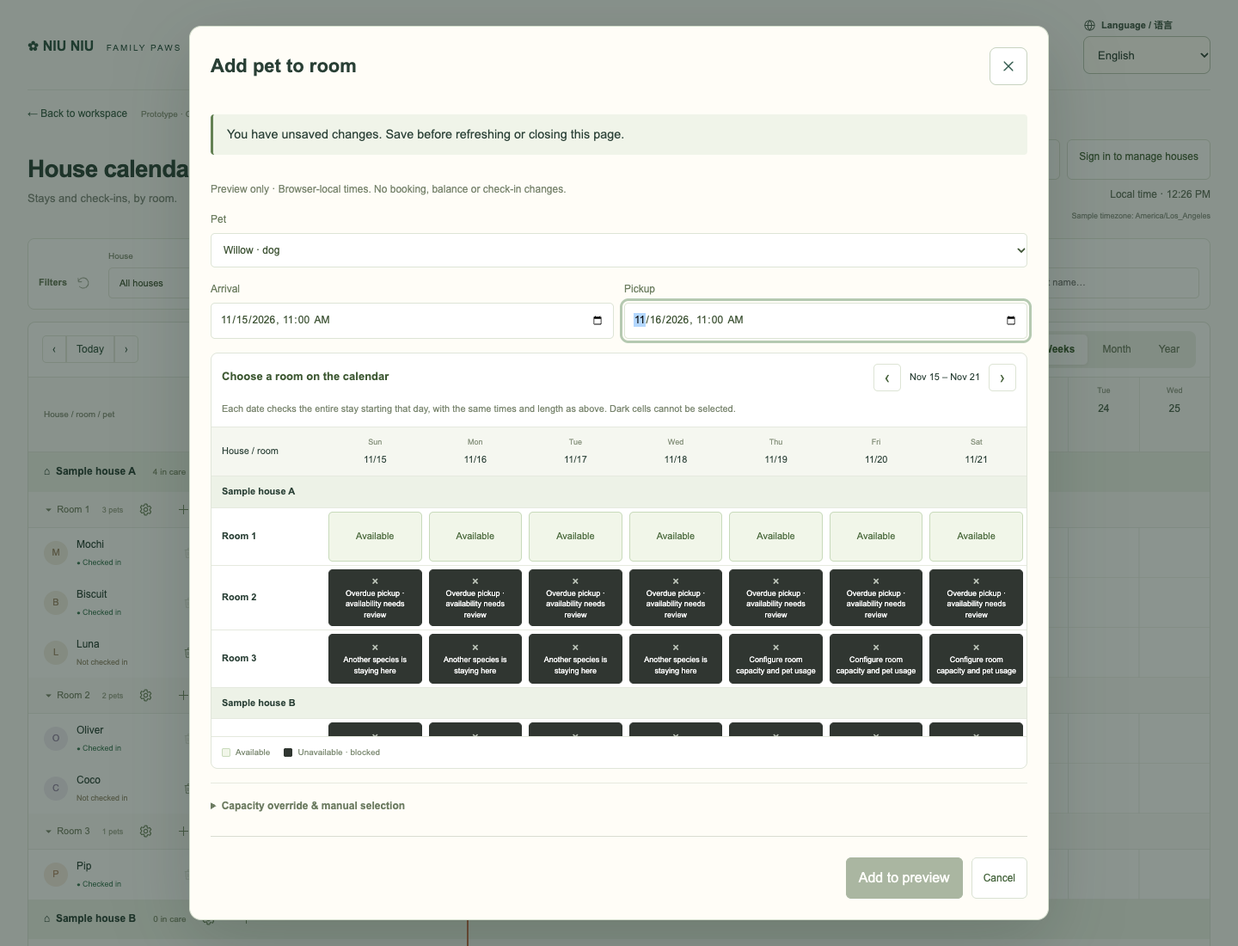
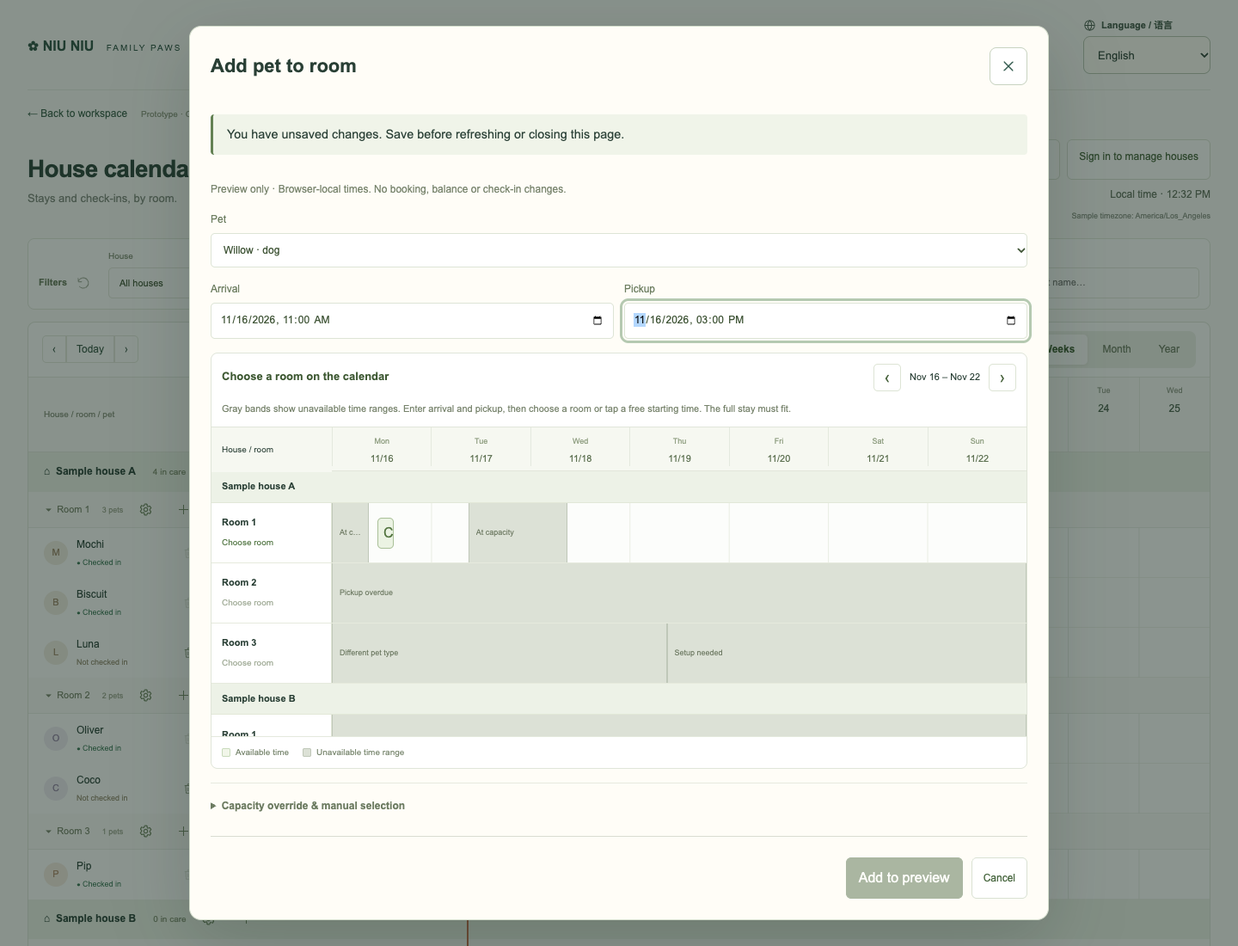
feat: shade continuous unavailable time ranges

diff --git a/apps/web/src/calendar-assignment.tsx b/apps/web/src/calendar-assignment.tsx
@@ -2,48 +2,67 @@ import React from 'react';
 import {useTranslation} from 'react-i18next';
 import Modal from './modal';
 import UnsavedChanges,{confirmDiscardChanges} from './unsaved-changes';
-import {placementIssue,type Placement,type PlacementIssue} from './calendar-placement';
+import {placementIssue,unavailableRanges,type Placement,type PlacementIssue} from './calendar-placement';
 export type PlacementHouse={id:number;name:string;rooms:{id:number;name:string;capacity:string;costs?:Record<string,string>}[]};
 export default function AssignmentDialog({houses,stays,pets,anchor,initial,onClose,onApply}:{houses:PlacementHouse[];stays:Placement[];pets:{name:string;species:string}[];anchor:Date;initial?:{house:number;room:number};onClose:()=>void;onApply:(stay:Placement)=>void}){
  const {i18n}=useTranslation(),zh=i18n.language==='zh',t=(en:string,cn:string)=>zh?cn:en;
  const local=(d:Date)=>new Date(d.getTime()-d.getTimezoneOffset()*60000).toISOString().slice(0,16);
  const [pet,setPet]=React.useState(''),[start,setStart]=React.useState(local(new Date(anchor.getTime()+9*3600000))),[end,setEnd]=React.useState(''),[house,setHouse]=React.useState(initial?String(initial.house):''),[room,setRoom]=React.useState(initial?String(initial.room):''),[override,setOverride]=React.useState('');
- const [week,setWeek]=React.useState(0);
+ const [week,setWeek]=React.useState(0),[feedback,setFeedback]=React.useState('');
+
  React.useEffect(()=>setWeek(0),[start]);
  const [dirty,setDirty]=React.useState(false),form=React.useRef<HTMLFormElement>(null);
  const selected=pets.find(p=>p.name===pet),offset=(s:string)=>(new Date(s).getTime()-anchor.getTime()-9*3600000)/86400000;
  const begin=offset(start),finish=offset(end),valid=!!selected&&Number.isFinite(begin)&&Number.isFinite(finish)&&finish>begin;
  const issue=(h:PlacementHouse,r:PlacementHouse['rooms'][number])=>!valid?'dates':placementIssue(stays,pet,selected!.species,begin,finish,h.id,r.id,Number(r.capacity),Number(override||r.costs?.[selected!.species]));
  const reasons:Record<Exclude<PlacementIssue,null>,string>={dates:t('Choose a pet and valid times first','请先选择宠物和有效时间'),duplicate:t('Pet already has a stay at this time','该宠物在此时段已有安排'),species:t('Another species is staying here','此时段有其他种类的宠物'),overdue:t('Overdue pickup · availability needs review','接回逾期 · 可用性需核实'),boundary:t('Back-to-back stay · turnover rule needed','相邻时段 · 需确认周转规则'),capacity:t('Not enough capacity for the whole stay','整个托管时段内容量不足'),unconfigured:t('Configure room capacity and pet usage','请配置房间容量和宠物用量')};
+ const rangeReasons={...reasons,capacity:t('At capacity','容量已满'),species:t('Different pet type','其他种类宠物'),duplicate:t('Pet already scheduled','宠物已有安排'),unconfigured:t('Setup needed','需要配置'),overdue:t('Pickup overdue','接回逾期')};
  const chosenHouse=houses.find(h=>String(h.id)===house),chosenRoom=chosenHouse?.rooms.find(r=>String(r.id)===room),problem=chosenHouse&&chosenRoom?issue(chosenHouse,chosenRoom):'dates';
  const calendarStart=Number.isFinite(new Date(start).getTime())?new Date(start):new Date(anchor);
  calendarStart.setHours(0,0,0,0);calendarStart.setDate(calendarStart.getDate()+week*7);
  const days=Array.from({length:7},(_,i)=>{const day=new Date(calendarStart);day.setDate(day.getDate()+i);return day;});
  const locale=zh?'zh-CN':'en-US';
- function candidate(day:Date){
-   const arrival=new Date(start),pickup=new Date(end),dayDelta=Math.round((Date.UTC(day.getFullYear(),day.getMonth(),day.getDate())-Date.UTC(arrival.getFullYear(),arrival.getMonth(),arrival.getDate()))/86400000);
-   arrival.setDate(arrival.getDate()+dayDelta);pickup.setDate(pickup.getDate()+dayDelta);
-   return {arrival,pickup,begin:offset(local(arrival)),finish:offset(local(pickup))};
+ const calendarEnd=new Date(calendarStart);calendarEnd.setDate(calendarEnd.getDate()+7);
+ const viewFrom=offset(local(calendarStart)),viewTo=offset(local(calendarEnd)),viewLength=viewTo-viewFrom;
+ const position=(value:number)=>(value-viewFrom)/viewLength*100;
+ const timeFor=(value:number)=>new Date(anchor.getTime()+9*3600000+value*86400000);
+ const rangeLabel=(a:number,b:number)=>timeFor(a).toLocaleString(locale,{month:'short',day:'numeric',hour:'2-digit',minute:'2-digit'})+' – '+timeFor(b).toLocaleString(locale,{month:'short',day:'numeric',hour:'2-digit',minute:'2-digit'});
+ function chooseRange(h:PlacementHouse,r:PlacementHouse['rooms'][number],arrival=begin,pickup=finish){
+   if(!valid){setFeedback(reasons.dates);return;}
+   const reason=placementIssue(stays,pet,selected!.species,arrival,pickup,h.id,r.id,Number(r.capacity),Number(override||r.costs?.[selected!.species]));
+   if(reason){setFeedback(reasons[reason]);return;}
+   setStart(local(timeFor(arrival)));setEnd(local(timeFor(pickup)));setHouse(String(h.id));setRoom(String(r.id));setDirty(true);setFeedback('');
  }
- function calendarIssue(h:PlacementHouse,r:PlacementHouse['rooms'][number],day:Date):PlacementIssue{
-   if(!valid)return 'dates';const stay=candidate(day);
-   return placementIssue(stays,pet,selected!.species,stay.begin,stay.finish,h.id,r.id,Number(r.capacity),Number(override||r.costs?.[selected!.species]));
- }
- function choose(h:PlacementHouse,r:PlacementHouse['rooms'][number],day:Date){
-   if(calendarIssue(h,r,day))return;const stay=candidate(day);
-   setStart(local(stay.arrival));setEnd(local(stay.pickup));setHouse(String(h.id));setRoom(String(r.id));setDirty(true);
+ function chooseTime(event:React.MouseEvent<HTMLDivElement>,h:PlacementHouse,r:PlacementHouse['rooms'][number]){
+   if(!valid){setFeedback(reasons.dates);return;}
+   const rect=event.currentTarget.getBoundingClientRect();
+   const arrival=Math.round((viewFrom+(event.clientX-rect.left)/rect.width*viewLength)*1440)/1440;
+   chooseRange(h,r,arrival,arrival+(finish-begin));
  }
  const close=()=>{if(confirmDiscardChanges(i18n.language,form.current))onClose();};
- const invalidate=()=>{setDirty(true);setHouse('');setRoom('');};
+ const invalidate=()=>{setDirty(true);setHouse('');setRoom('');setFeedback('');};
  return <Modal className="hc-assignment-dialog" title={t('Add pet to room','添加宠物到房间')} onClose={close}><form ref={form} className="hc-settings-form" onSubmit={e=>{e.preventDefault();if(!selected||!chosenHouse||!chosenRoom||problem)return;onApply({id:crypto.randomUUID(),name:pet,species:selected.species,house:chosenHouse.id,room:chosenRoom.id,start:begin,end:finish,status:'upcoming',units:Number(override||chosenRoom.costs?.[selected.species])});}}>
  <UnsavedChanges active={dirty}/><p className="hc-setup-note">{t('Preview only · Browser-local times. No booking, balance or check-in changes.','仅供预览 · 使用浏览器当地时间。不修改预约、余额或入住记录。')}</p>
  <label>{t('Pet','宠物')}<select aria-label={t('Pet','宠物')} required value={pet} onChange={e=>{setPet(e.target.value);invalidate();}}><option value="">{t('Select a pet','选择宠物')}</option>{pets.map(p=><option key={p.name} value={p.name}>{p.name} · {t(p.species,{dog:'狗',cat:'猫',rabbit:'兔'}[p.species]||p.species)}</option>)}</select></label>
  <div className="hc-time-fields"><label>{t('Arrival','到店时间')}<input type="datetime-local" required value={start} onChange={e=>{setStart(e.target.value);invalidate();}}/></label><label>{t('Pickup','接回时间')}<input type="datetime-local" required value={end} onChange={e=>{setEnd(e.target.value);invalidate();}}/></label></div>
  <section className="hc-schedule-picker" aria-label={t('Room availability calendar','房间可用日历')}>
  <div className="hc-schedule-heading"><h3>{t('Choose a room on the calendar','在日历上选择房间')}</h3><div><button type="button" title={t('Previous week','上一周')} aria-label={t('Previous week','上一周')} onClick={()=>setWeek(week-1)}>‹</button><span>{days[0].toLocaleDateString(locale,{month:'short',day:'numeric'})} – {days[6].toLocaleDateString(locale,{month:'short',day:'numeric'})}</span><button type="button" title={t('Next week','下一周')} aria-label={t('Next week','下一周')} onClick={()=>setWeek(week+1)}>›</button></div></div>
- <p className="hc-setup-note">{valid?t('Each date checks the entire stay starting that day, with the same times and length as above. Dark cells cannot be selected.','每个日期检查从该日开始、时间及长度与上方一致的整个托管时段。深色格不可选。'):t('Select a pet and enter arrival and pickup first. Available starting dates will appear here.','请先选择宠物并填写到店、接回时间，然后在此选择可用开始日期。')}</p>
- <div className="hc-schedule-scroll" tabIndex={0} aria-label={t('Scroll room availability calendar','滚动房间可用日历')}><table className="hc-schedule-table"><thead><tr><th scope="col">{t('House / room','房屋 / 房间')}</th>{days.map(day=><th scope="col" key={day.toISOString()}><small>{day.toLocaleDateString(locale,{weekday:'short'})}</small>{day.toLocaleDateString(locale,{month:'numeric',day:'numeric'})}</th>)}</tr></thead><tbody>{houses.map(h=><React.Fragment key={h.id}><tr className="hc-schedule-house"><th scope="rowgroup" colSpan={8}>{h.name}</th></tr>{!h.rooms.length&&<tr><td colSpan={8}>{t('No rooms yet','暂无房间')}</td></tr>}{h.rooms.map(r=><tr key={r.id}><th scope="row">{r.name}</th>{days.map(day=>{const reason=calendarIssue(h,r,day),picked=String(h.id)===house&&String(r.id)===room&&day.toDateString()===new Date(start).toDateString();const explanation=reason?reasons[reason]:t('Available','可用');return <td key={day.toISOString()}><button type="button" className={'hc-schedule-cell '+(!valid?'pending':reason?'blocked':picked?'picked':'available')} disabled={!!reason} aria-pressed={picked&&!reason} aria-label={`${h.name} · ${r.name} · ${day.toLocaleDateString(locale)} · ${explanation}`} title={explanation} onClick={()=>choose(h,r,day)}>{!valid?'—':reason?<><span aria-hidden="true">×</span><small>{explanation}</small></>:picked?t('Selected','已选择'):t('Available','可用')}</button></td>;})}</tr>)}</React.Fragment>)}</tbody></table></div>
- <div className="hc-schedule-legend"><span><i/>{t('Available','可用')}</span><span><i className="blocked"/>{t('Unavailable · blocked','不可用 · 已屏蔽')}</span></div>
+ <p className="hc-setup-note">{t('Gray bands show unavailable time ranges. Enter arrival and pickup, then choose a room or tap a free starting time. The full stay must fit.','灰色条表示不可用时段。填写到店和接回时间后，选择房间或点击空白处选开始时间。整个托管时段都必须可用。')}</p>
+ <div className="hc-schedule-scroll" tabIndex={0} aria-label={t('Scroll room availability calendar','滚动房间可用日历')}><div className="hc-range-calendar">
+ <div className="hc-range-axis"><div>{t('House / room','房屋 / 房间')}</div><div className="hc-range-dates">{days.map(day=><div key={day.toISOString()} style={{left:`${position(offset(local(day)))}%`}}><small>{day.toLocaleDateString(locale,{weekday:'short'})}</small>{day.toLocaleDateString(locale,{month:'numeric',day:'numeric'})}</div>)}</div></div>
+ {houses.map(h=><React.Fragment key={h.id}><div className="hc-range-house">{h.name}</div>{!h.rooms.length&&<p className="hc-room-empty">{t('No rooms yet','暂无房间')}</p>}{h.rooms.map(r=>{const unavailable=selected?unavailableRanges(stays,pet,selected.species,viewFrom,viewTo,h.id,r.id,Number(r.capacity),Number(override||r.costs?.[selected.species])):[];
+ const problem=issue(h,r),picked=String(h.id)===house&&String(r.id)===room;
+ const left=Math.max(0,position(begin)),right=Math.min(100,position(finish));
+ return <div className="hc-range-room" key={r.id}><div className="hc-range-room-name"><strong>{r.name}</strong><button type="button" disabled={!!problem} title={problem?reasons[problem]:t('Choose this room for the entered times','选择此房间及已填写的时段')} aria-label={`${t('Choose','选择')} ${h.name} · ${r.name}`} onClick={()=>chooseRange(h,r)}>{picked&&!problem?t('Selected','已选择'):t('Choose room','选择房间')}</button></div>
+ <div className={'hc-time-track'+(!selected?' pending':'')} aria-label={`${h.name} · ${r.name}`} onClick={event=>chooseTime(event,h,r)}>
+ {selected&&unavailable.map((range,i)=><button key={i} type="button" disabled className="hc-time-unavailable" style={{left:`${position(range.start)}%`,width:`${position(range.end)-position(range.start)}%`}} title={`${rangeLabel(range.start,range.end)} · ${reasons[range.reason]}`} aria-label={`${h.name} · ${r.name} · ${rangeLabel(range.start,range.end)} · ${reasons[range.reason]}`}><span>{rangeReasons[range.reason]}</span></button>)}
+ {valid&&!problem&&right>left&&<button type="button" className={'hc-time-request'+(picked?' picked':'')} style={{left:`${left}%`,width:`${right-left}%`}} aria-label={`${t('Choose','选择')} ${h.name} · ${r.name} · ${rangeLabel(begin,finish)}`} aria-pressed={picked} onClick={event=>{event.stopPropagation();chooseRange(h,r);}}>{picked?t('Selected','已选择'):t('Choose','选择')}</button>}
+ {!selected&&<span className="hc-time-placeholder">{t('Select a pet to see availability','选择宠物以查看可用时段')}</span>}
+ </div></div>;})}</React.Fragment>)}
+ </div></div>
+ <div className="hc-schedule-legend"><span><i/>{t('Available time','可用时段')}</span><span><i className="unavailable"/>{t('Unavailable time range','不可用时段')}</span></div>
+ {feedback&&<p className="hc-range-feedback" role="alert">{feedback}</p>}
+
  {chosenHouse&&chosenRoom&&!problem&&<p className="hc-schedule-selection" role="status">{chosenHouse.name} · {chosenRoom.name} · {new Date(start).toLocaleString(locale)} → {new Date(end).toLocaleString(locale)}</p>}
  </section>
  <details className="hc-placement-options"><summary>{t('Capacity override & manual selection','容量覆盖值与手动选择')}</summary>

diff --git a/apps/web/src/house-calendar.css b/apps/web/src/house-calendar.css
@@ -49,5 +49,8 @@
 .hc-filters{display:flex;align-items:flex-end;gap:14px;padding:12px;margin:18px 0 14px;background:#fff}.hc-filters-heading{margin:0;gap:4px;min-height:36px;flex-shrink:0}.hc-filters h2{font-size:11px;color:#687b5e}.hc-clear{width:30px;height:36px}.hc-filter-fields{flex:1;min-width:0;grid-template-columns:1fr 1fr 1fr 1fr 1fr 1.2fr;gap:10px}.hc-filter-fields label{font-size:10px;gap:5px;color:#7b8871}.hc-filter-fields input,.hc-filter-fields select{min-height:36px;padding:8px;font-size:11px;border-color:#e2e7dc}.hc-add-house{display:inline-flex;align-items:center;gap:6px}.hc-add-house svg{width:16px;height:16px}.hc-title-actions{gap:8px}.hc-range{padding-top:10px;padding-bottom:10px}.hc-settings{color:#708562}.hc-settings:hover{color:#38562c}.hc-remove-pet svg{width:14px;height:14px}.hc-remove-pet:not(:disabled):hover{color:#9e4936}.hc-demo{background:transparent;color:#909984;padding:0}.hc-title{margin-top:18px}.hc-title-actions .hc-live small{font-size:9px}
 @media(min-width:701px) and (max-width:1100px){.hc-filters{align-items:center}.hc-filter-fields{grid-template-columns:repeat(3,minmax(0,1fr))}.hc-filters-heading{flex-direction:column}}
 @media(max-width:700px){.hc-filters{display:block;padding:10px 12px;margin:16px 0 12px}.hc-filters-heading{min-height:24px;margin-bottom:6px}.hc-clear{width:30px;height:26px}.hc-filter-fields{grid-template-columns:repeat(2,minmax(0,1fr));gap:8px 10px}.hc-filter-fields label{gap:4px}.hc-filter-fields select,.hc-filter-fields input{min-height:38px;padding:8px;font-size:11px}.hc-range .hc-scales{width:100%;justify-content:space-between}.hc-scales [role=tab]{min-height:36px;flex:1;padding:8px 12px}.hc-demo{line-height:1.5;font-size:9px}.hc-title-actions{gap:8px}.hc-live small{font-size:9px}.hc-title{gap:10px}.hc-settings{min-width:36px;min-height:36px}}
-.hc .app-dialog.hc-assignment-dialog{width:min(1000px,calc(100vw - 32px));max-width:1000px}.hc-schedule-picker{border:1px solid #dfe5d9;border-radius:8px;overflow:hidden;background:#fff}.hc-schedule-heading{display:flex;align-items:center;justify-content:space-between;gap:12px;padding:12px}.hc-schedule-heading h3{font-size:13px;margin:0;color:#3d5832}.hc-schedule-heading>div{display:flex;align-items:center;gap:10px;font-size:11px;white-space:nowrap}.hc-schedule-heading button{width:32px;height:32px;border:1px solid #dde4d5;border-radius:5px;background:white;color:#4d6742;font-size:18px}.hc-schedule-picker>.hc-setup-note{padding:0 12px 12px;margin:0;font-size:11px}.hc-schedule-scroll{overflow:auto;max-height:360px}.hc-schedule-table{width:100%;min-width:760px;border-collapse:separate;border-spacing:0;table-layout:fixed;font-size:11px}.hc-schedule-table th,.hc-schedule-table td{border-top:1px solid #e5e9df;padding:4px;background:#fff;vertical-align:middle}.hc-schedule-table thead th{position:sticky;top:0;z-index:2;background:#f5f7f0;font-weight:500;padding:10px 4px;text-align:center}.hc-schedule-table th:first-child{width:132px;position:sticky;left:0;z-index:1;text-align:left;padding-left:12px}.hc-schedule-table thead th:first-child{z-index:3}.hc-schedule-table thead small{display:block;color:#8a9580;font-size:9px;margin-bottom:4px}.hc-schedule-table .hc-schedule-house th{background:#edf2e7;font-weight:600;padding:9px 12px;width:auto}.hc-schedule-cell{width:100%;min-height:58px;padding:5px;border:1px solid #c8dabb;border-radius:5px;color:#4c6b3e;background:#f1f6e9;font:inherit;line-height:1.35}.hc-schedule-cell.blocked{background:#303631;border-color:#303631;color:#fff;cursor:not-allowed;opacity:1}.hc-schedule-cell.blocked span{display:block;font-size:14px;line-height:16px;color:#b8c0b5}.hc-schedule-cell.blocked small{display:block;font-size:8px;font-weight:400;line-height:1.35}.hc-schedule-cell.pending{background:#f0f2ed;border-color:#e2e6db;color:#acb3a4;cursor:default}.hc-schedule-cell.available:hover{background:#e2edda;border-color:#819d6c}.hc-schedule-cell.picked{background:#47623a;border-color:#47623a;color:white;outline:2px solid #c8d8bd}.hc-schedule-legend{display:flex;gap:16px;padding:10px 12px;border-top:1px solid #e4e9dd;font-size:10px;color:#7a8870}.hc-schedule-legend span{display:flex;gap:6px;align-items:center}.hc-schedule-legend i{width:10px;height:10px;border:1px solid #c8dabb;border-radius:2px;background:#f1f6e9}.hc-schedule-legend i.blocked{background:#303631;border-color:#303631}.hc-schedule-selection{padding:10px 12px;margin:0;background:#f0f5e9;color:#4e693e;font-size:11px}.hc-placement-options{border-top:1px solid #e6eadf;padding-top:12px;font-size:12px;color:#6d7c62}.hc-placement-options summary{cursor:pointer;padding:5px 0}.hc-placement-options[open]{display:grid;gap:12px}.hc-placement-options label{margin-top:12px}@media(max-width:700px){.hc .app-dialog.hc-assignment-dialog{width:calc(100vw - 20px);padding:16px}.hc-schedule-heading{flex-direction:column;align-items:flex-start;gap:8px}.hc-schedule-table{min-width:720px}.hc-schedule-table th:first-child{width:110px}.hc-schedule-cell{min-height:64px}.hc-schedule-heading>div{justify-content:space-between;width:100%}.hc-schedule-legend{gap:10px;font-size:9px;flex-wrap:wrap}}
-.hc-schedule-cell.blocked small{font-size:9px;line-height:1.4}
+.hc .app-dialog.hc-assignment-dialog{width:min(1000px,calc(100vw - 32px));max-width:1000px}.hc-schedule-picker{border:1px solid #dfe5d9;border-radius:8px;overflow:hidden;background:#fff}.hc-schedule-heading{display:flex;align-items:center;justify-content:space-between;gap:12px;padding:12px}.hc-schedule-heading h3{font-size:13px;margin:0;color:#3d5832}.hc-schedule-heading>div{display:flex;align-items:center;gap:10px;font-size:11px;white-space:nowrap}.hc-schedule-heading button{width:32px;height:32px;border:1px solid #dde4d5;border-radius:5px;background:white;color:#4d6742;font-size:18px}.hc-schedule-picker>.hc-setup-note{padding:0 12px 12px;margin:0;font-size:11px}.hc-schedule-scroll{overflow:auto;max-height:360px}.hc-schedule-legend{display:flex;gap:16px;padding:10px 12px;border-top:1px solid #e4e9dd;font-size:10px;color:#7a8870}.hc-schedule-legend span{display:flex;gap:6px;align-items:center}.hc-schedule-legend i{width:10px;height:10px;border:1px solid #c8dabb;border-radius:2px;background:#f1f6e9}.hc-schedule-selection{padding:10px 12px;margin:0;background:#f0f5e9;color:#4e693e;font-size:11px}.hc-placement-options{border-top:1px solid #e6eadf;padding-top:12px;font-size:12px;color:#6d7c62}.hc-placement-options summary{cursor:pointer;padding:5px 0}.hc-placement-options[open]{display:grid;gap:12px}.hc-placement-options label{margin-top:12px}@media(max-width:700px){.hc .app-dialog.hc-assignment-dialog{width:calc(100vw - 20px);padding:16px}.hc-schedule-heading{flex-direction:column;align-items:flex-start;gap:8px}.hc-schedule-heading>div{justify-content:space-between;width:100%}.hc-schedule-legend{gap:10px;font-size:9px;flex-wrap:wrap}}
+/* Continuous time ranges: gray unavailable bands, never per-day blackout tiles. */
+.hc-range-calendar{min-width:800px;--room-label:140px}.hc-range-axis,.hc-range-room{display:grid;grid-template-columns:var(--room-label) 1fr}.hc-range-axis{height:52px;position:sticky;top:0;z-index:3;border-top:1px solid #e1e6da;border-bottom:1px solid #e1e6da;background:#f6f8f1}.hc-range-axis>div:first-child{padding:18px 12px;font-size:10px;position:sticky;left:0;background:#f6f8f1;z-index:2}.hc-range-dates{position:relative}.hc-range-dates>div{position:absolute;top:0;width:14.2857%;text-align:center;padding-top:9px;font-size:11px;color:#5c7050;border-left:1px solid #e4e9de}.hc-range-dates small{display:block;font-size:9px;margin-bottom:4px;color:#91a083}.hc-range-house{padding:9px 12px;background:#edf2e7;font-size:11px;font-weight:600;border-bottom:1px solid #e2e8d8}.hc-range-room{height:70px;border-bottom:1px solid #e6eadd}.hc-range-room-name{background:white;position:sticky;left:0;z-index:2;border-right:1px solid #e2e8d9;padding:10px 12px;display:flex;flex-direction:column;align-items:flex-start;justify-content:center;gap:6px}.hc-range-room-name strong{font-size:11px}.hc-range-room-name button{border:0;background:transparent;padding:0;font-size:10px;color:#567948}.hc-range-room-name button:disabled{color:#a6b09d;cursor:default}.hc-time-track{position:relative;cursor:crosshair;background:#fcfdfb;background-image:linear-gradient(to right,#e9ede3 1px,transparent 1px);background-size:14.2857% 100%}.hc-time-track.pending{cursor:default;background-color:#f5f6f1}.hc-time-unavailable{position:absolute;top:0;bottom:0;border:0;border-left:1px solid #bfc7b8;border-right:1px solid #bfc7b8;border-radius:0;background:#dce1d6;color:#707c65;opacity:1;cursor:not-allowed;overflow:hidden;padding:4px 8px;text-align:left}.hc-time-unavailable span{font-size:9px;display:block;line-height:1.4}.hc-time-request{position:absolute;top:17px;height:36px;border:1px solid #a9c097;border-radius:5px;background:#ebf3e3;color:#52743f;overflow:hidden;font-size:10px;z-index:1;min-width:4px}.hc-time-request.picked{background:#47623a;color:white;border-color:#47623a}.hc-time-placeholder{display:block;font-size:10px;color:#a0aa95;margin:27px 12px}.hc-schedule-legend i.unavailable{background:#dce1d6;border-color:#bfc7b8}.hc-range-feedback{font-size:11px;color:#986748;padding:8px 12px;margin:0;background:#fcf4e9}@media(max-width:700px){.hc-range-calendar{min-width:760px;--room-label:112px}.hc-range-room{height:72px}.hc-range-room-name{padding:9px}.hc-time-unavailable span{font-size:9px}}
+
+.hc-time-unavailable span{white-space:nowrap;overflow:hidden;text-overflow:ellipsis}

diff --git a/tests/browser/calendar.spec.ts b/tests/browser/calendar.spec.ts
@@ -34,7 +34,7 @@ test('customer filtering combines with other filters and calendar tabs support k
  await page.screenshot({path:'test-results/calendar-customer-mobile-zh.png',fullPage:true});
 });
 
-test('add-pet calendar selects available stays and blacks out unsuitable rooms and dates',async({page})=>{
+test('add-pet calendar selects available stays and grays out continuous unavailable time ranges',async({page})=>{
  await page.goto('/#/house-calendar');
  await page.getByRole('button',{name:'Room settings: Sample house A · Room 1',exact:true}).click();
  await page.getByLabel('Maximum capacity',{exact:true}).fill('4');
@@ -46,21 +46,24 @@ test('add-pet calendar selects available stays and blacks out unsuitable rooms a
  const dates=await page.evaluate(()=>{const a=new Date();a.setHours(11,0,0,0);a.setDate(a.getDate()+1);const end=new Date(a);end.setDate(end.getDate()+1);const local=(d:Date)=>new Date(d.getTime()-d.getTimezoneOffset()*60000).toISOString().slice(0,16);return [local(a),local(end)];});
  await dialog.getByLabel('Arrival',{exact:true}).fill(dates[0]);await dialog.getByLabel('Pickup',{exact:true}).fill(dates[1]);
  const calendar=page.getByRole('region',{name:'Room availability calendar',exact:true});
- const blocked=calendar.locator('button.blocked');
+ const blocked=calendar.locator('button.hc-time-unavailable');
  if(!await blocked.count())throw Error('No blackout cells');
  if(!await blocked.first().isDisabled())throw Error('Blackout cell enabled');
- if(await blocked.first().evaluate(e=>getComputedStyle(e).backgroundColor)!=='rgb(48, 54, 49)')throw Error('Blackout not dark');
- await calendar.getByRole('button',{name:/^Sample house A · Room 1 .* Available$/}).first().click();
+ if(await blocked.first().evaluate(e=>getComputedStyle(e).backgroundColor)!=='rgb(220, 225, 214)')throw Error('Unavailable range is not gray');
+ await calendar.getByRole('button',{name:'Choose Sample house A · Room 1',exact:true}).click();
  await dialog.getByRole('button',{name:'Add to preview',exact:true}).waitFor();
  if(await dialog.getByRole('button',{name:'Add to preview',exact:true}).isDisabled())throw Error('Available stay not selectable');
- if(await calendar.locator('.picked').count()!==1)throw Error('Selected stay not marked');
+ if(await calendar.locator('.hc-time-request.picked').count()!==1)throw Error('Selected stay not marked');
+ const track=calendar.locator('.hc-time-track').first();const box=await track.boundingBox();if(!box)throw Error('Timeline missing');
+ await track.click({position:{x:box.width*.5,y:10}});
+ if(await calendar.locator('.hc-time-request.picked').count()!==1)throw Error('Free-time click did not select stay');
  await dialog.getByRole('button',{name:'Add to preview',exact:true}).click();
  await page.getByRole('button',{name:'Remove placement: Willow',exact:true}).waitFor();
  await page.setViewportSize({width:390,height:844});await page.locator('.language-selector select').selectOption('zh');
  await page.getByRole('button',{name:'添加宠物到房间',exact:true}).click();
  await page.getByRole('combobox',{name:'宠物',exact:true}).selectOption('Miso');
  await page.getByLabel('到店时间',{exact:true}).fill(dates[0]);await page.getByLabel('接回时间',{exact:true}).fill(dates[1]);
- if(!await page.locator('.hc-schedule-cell.blocked').count())throw Error('Chinese blackouts missing');
+ if(!await page.locator('.hc-time-unavailable').count())throw Error('Chinese blackouts missing');
  if(await page.evaluate(()=>document.documentElement.scrollWidth>innerWidth))throw Error('Mobile page overflow');
  await page.getByRole('button',{name:'下一周',exact:true}).click();
  await page.screenshot({path:'test-results/add-pet-calendar-mobile-zh.png',fullPage:true});

diff --git a/apps/web/src/calendar-placement.ts b/apps/web/src/calendar-placement.ts
@@ -17,3 +17,22 @@ export function placementIssue(stays:Placement[],pet:string,species:string,start
  if(points.some(point=>units+overlap.filter(s=>s.start<=point&&finish(s)>point).reduce((sum,s)=>sum+s.units,0)>maximum))return 'capacity';
  return null;
 }
+
+export type UnavailableRange={start:number;end:number;reason:Exclude<PlacementIssue,null>};
+// Sample occupancy changes only at stay endpoints. Evaluate each open interval,
+// then join adjacent periods with the same reason; exact handoff boundaries
+// still receive the separate placementIssue check when selecting a stay.
+export function unavailableRanges(stays:Placement[],pet:string,species:string,from:number,to:number,house:number,room:number,maximum:number,units:number):UnavailableRange[]{
+ if(!Number.isFinite(from)||!Number.isFinite(to)||to<=from)return [];
+ const points=[...new Set([from,to,...stays.filter(s=>s.status!=='out').flatMap(s=>s.overdue?[s.start]:[s.start,s.end]).filter(t=>t>from&&t<to)])].sort((a,b)=>a-b);
+ const ranges:UnavailableRange[]=[];
+ for(let i=0;i<points.length-1;i++){
+   const start=points[i],end=points[i+1],middle=(start+end)/2,epsilon=Math.min((end-start)/4,1/86400000);
+   const reason=placementIssue(stays,pet,species,middle-epsilon,middle+epsilon,house,room,maximum,units);
+   if(!reason)continue;
+   const last=ranges.at(-1);
+   if(last&&last.end===start&&last.reason===reason)last.end=end;
+   else ranges.push({start,end,reason});
+ }
+ return ranges;
+}

diff --git a/docs/business-owner-guide.md b/docs/business-owner-guide.md
@@ -137,6 +137,6 @@ Customer / House / Room / Pet type / Status / Pet name filters combine. The rese
 
 ## Choosing a room on the Add pet calendar (prototype)
 
-Choose a pet and enter arrival/pickup, then click an available room/date in the weekly calendar. Each date checks the entire stay starting on that date with the same local times and calendar-day length. Dark cells are unavailable and show why; they cannot be selected. Move between weeks to compare starting dates. Capacity overrides and manual room selection are under the expandable options. The selection summary shows final times before Add to preview.
+Choose a pet and enter arrival/pickup. Gray bands show the actual unavailable time ranges for each room; white areas are free. Click Choose room or its green range to use the entered times, or tap a free time to shift the entire entered stay there. Any stay crossing an unavailable period is rejected. Gray bands cannot be selected. Hover for exact unavailable times/reasons. Use the datetime fields or manual selectors for precise keyboard scheduling; dragging is not required. Changes stay in the preview.
 
-选择宠物并填写到店和接回时间后，在周日历中选择可用的房间和开始日期。每个日期检查从该日开始、当地时间和日历天数与上方一致的整个托管时段。深色格表示不可选，并显示原因。可切换周比较日期；容量覆盖值与手动选房收纳在展开选项中。添加前请核对选择摘要中的时间。
+选择宠物并填写到店和接回时间。灰色条表示房间的实际不可用时段，白色区域表示空闲。点击“选择房间”或绿色条使用已填写时间，或点击空闲处把整个托管时段移到该开始时间。跨越冲突时段的安排不能提交，灰色条不可选。悬停可查看准确时间与原因。也可以使用日期时间输入框或手动选房，无需拖动。修改仅保留在预览中。

diff --git a/docs/session-handoff.md b/docs/session-handoff.md
@@ -1,5 +1,11 @@
 # Session handoff — 2026-10-22
 
+## Continuous gray unavailability ranges — 2026-11-15
+
+Owner clarified that unavailable periods must be gray time ranges, not individual dark date tiles. Revised unmerged PR #44 accordingly: Add pet now has continuous per-room timelines, gray bands at exact occupied/unavailable boundaries (including partial days), and free space between bands. Range reasons remain visible/accessible with exact-time tooltips. Select the entered stay with Choose room or its green range; tapping a free point shifts the whole entered interval to that minute and revalidates it. Crossing any conflict is rejected, and gray bands cannot be selected. No dragging required; exact datetime fields/manual selectors remain keyboard alternatives. Unknown configuration/overdue stays conservatively gray their affected range. Boundary/turnover decisions remain unresolved and are still rechecked on submission.
+
+Added pure unavailableRanges sweep/merge helper and tests for partial-day boundaries, merging across unrelated stay endpoints, peak capacity changes, overdue, missing setup and duplicate-pet reservations. All 20 unit tests, build, four targeted browser cases and all 14 browser cases pass; calendar coverage includes tapping free time. Actual localhost Chrome opened the continuous timeline; desktop screenshot refreshed. PR #44 is still the active feature record; do not merge an earlier individual-day version. No deployment or real-record writes.
+
 ## Add-pet calendar and unavailable-date blackouts — 2026-11-15
 
 Review/merge record: https://github.com/Fifiloveniuniu/niu-niu-family-paws/pull/44. Implementation `0593980` is GitHub Verified. Check that PR for final CI and merge status; no hosted deployment.

diff --git a/docs/requirements.md b/docs/requirements.md
@@ -114,7 +114,7 @@ Proposed cutoff interpretation, awaiting confirmation: at least 14 days before s
 - Provide combined all-house and individual-house overviews.
 - Show arrivals, pickups, pets in care, capacity, requests requiring action, unassigned pets and conflicts as applicable to the approved lifecycle.
 - Calendar/timeline supports reviewing all bookings, with a dedicated Filters section for house, room, customer, pet type, pet name and status, plus clear/reset. House/room gear icons open their editable settings directly in focused dialogs.
-- Add pet uses a room/date calendar for scheduling. Black out and disable unavailable room/time choices with explanations, and recheck the entire requested stay before accepting.
+- Add pet uses a room/date calendar for scheduling. Shade unavailable room/time ranges gray as continuous timeline bands, including partial days, with explanations, and recheck the entire requested stay before accepting.
 - Add/remove timed pet placements from rooms. Select the pet and complete stay period first, then disable unsuitable houses/rooms and explain availability conflicts. Removing a placement must not delete the pet profile. Inspect occupancy over time; schedule moves only under approved policies.
 - Placement optimization is requested. Explainable admin-reviewed suggestions are a proposed later implementation, not an approved automatic-movement policy.
 
